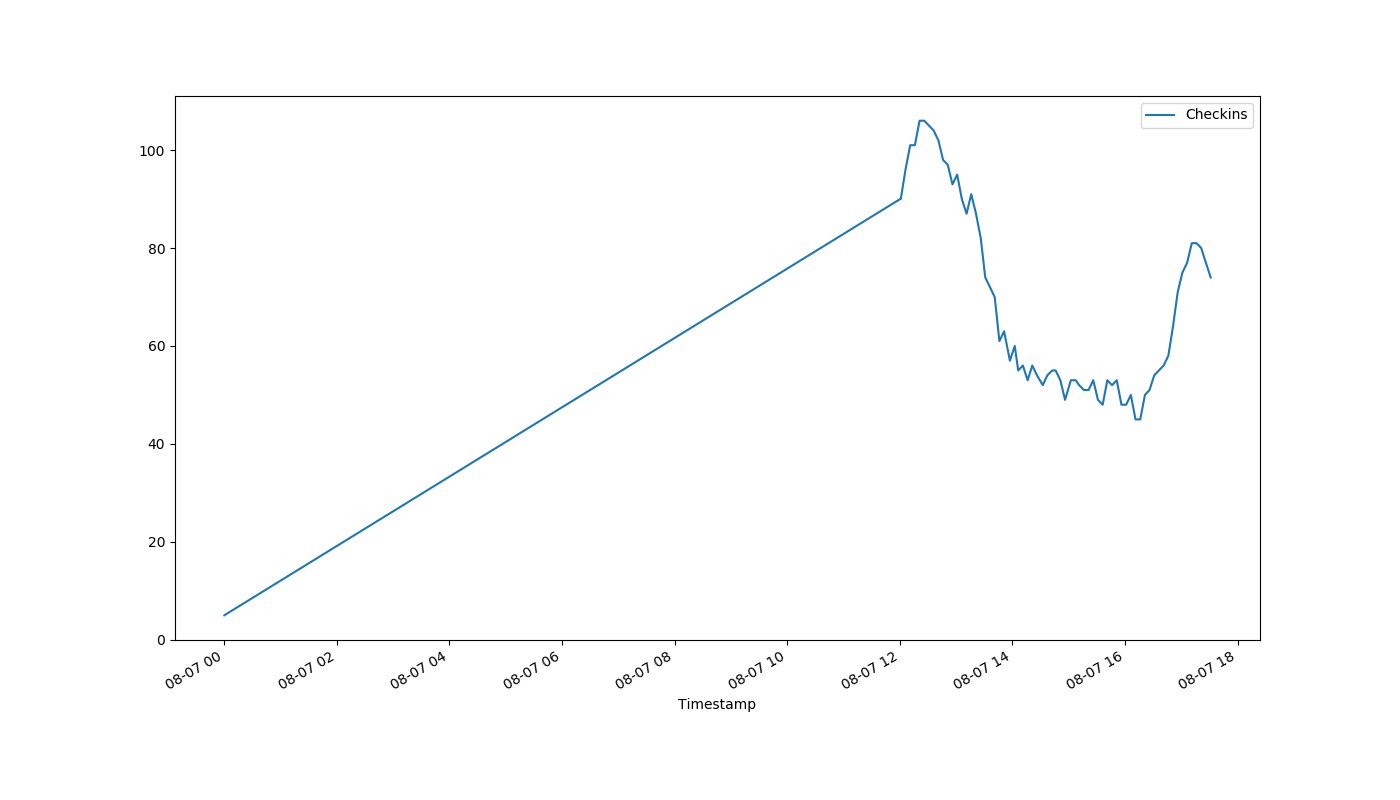
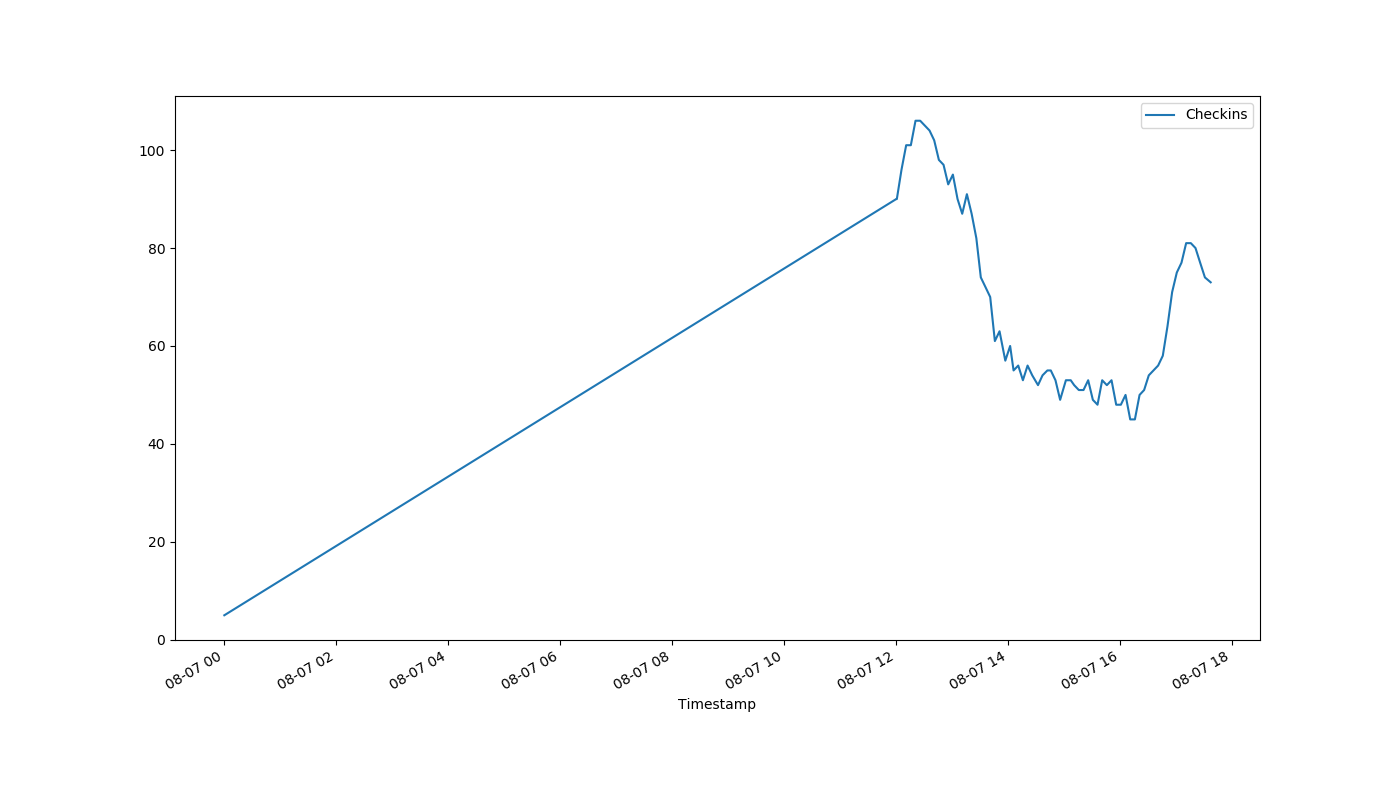
auto-Aug-07-17:38:53

diff --git a/index.html b/index.html
@@ -1,1 +1,1 @@
-<!DOCTYPE html><html><head><meta http-equiv="refresh" content="30"><link rel='stylesheet' href='holmcurrent.css'></head><body><p id='count'>74</p><div id='graph-wrap'><img id='graph' src='holmgraph-Aug-07.png'></div><p id='updated'>Last updated 17:32:02 / 17:31:12</p></body></html>
+<!DOCTYPE html><html><head><meta http-equiv="refresh" content="30"><link rel='stylesheet' href='holmcurrent.css'></head><body><p id='count'>73</p><div id='graph-wrap'><img id='graph' src='holmgraph-Aug-07.png'></div><p id='updated'>Last updated 17:38:02 / 17:37:23</p></body></html>
